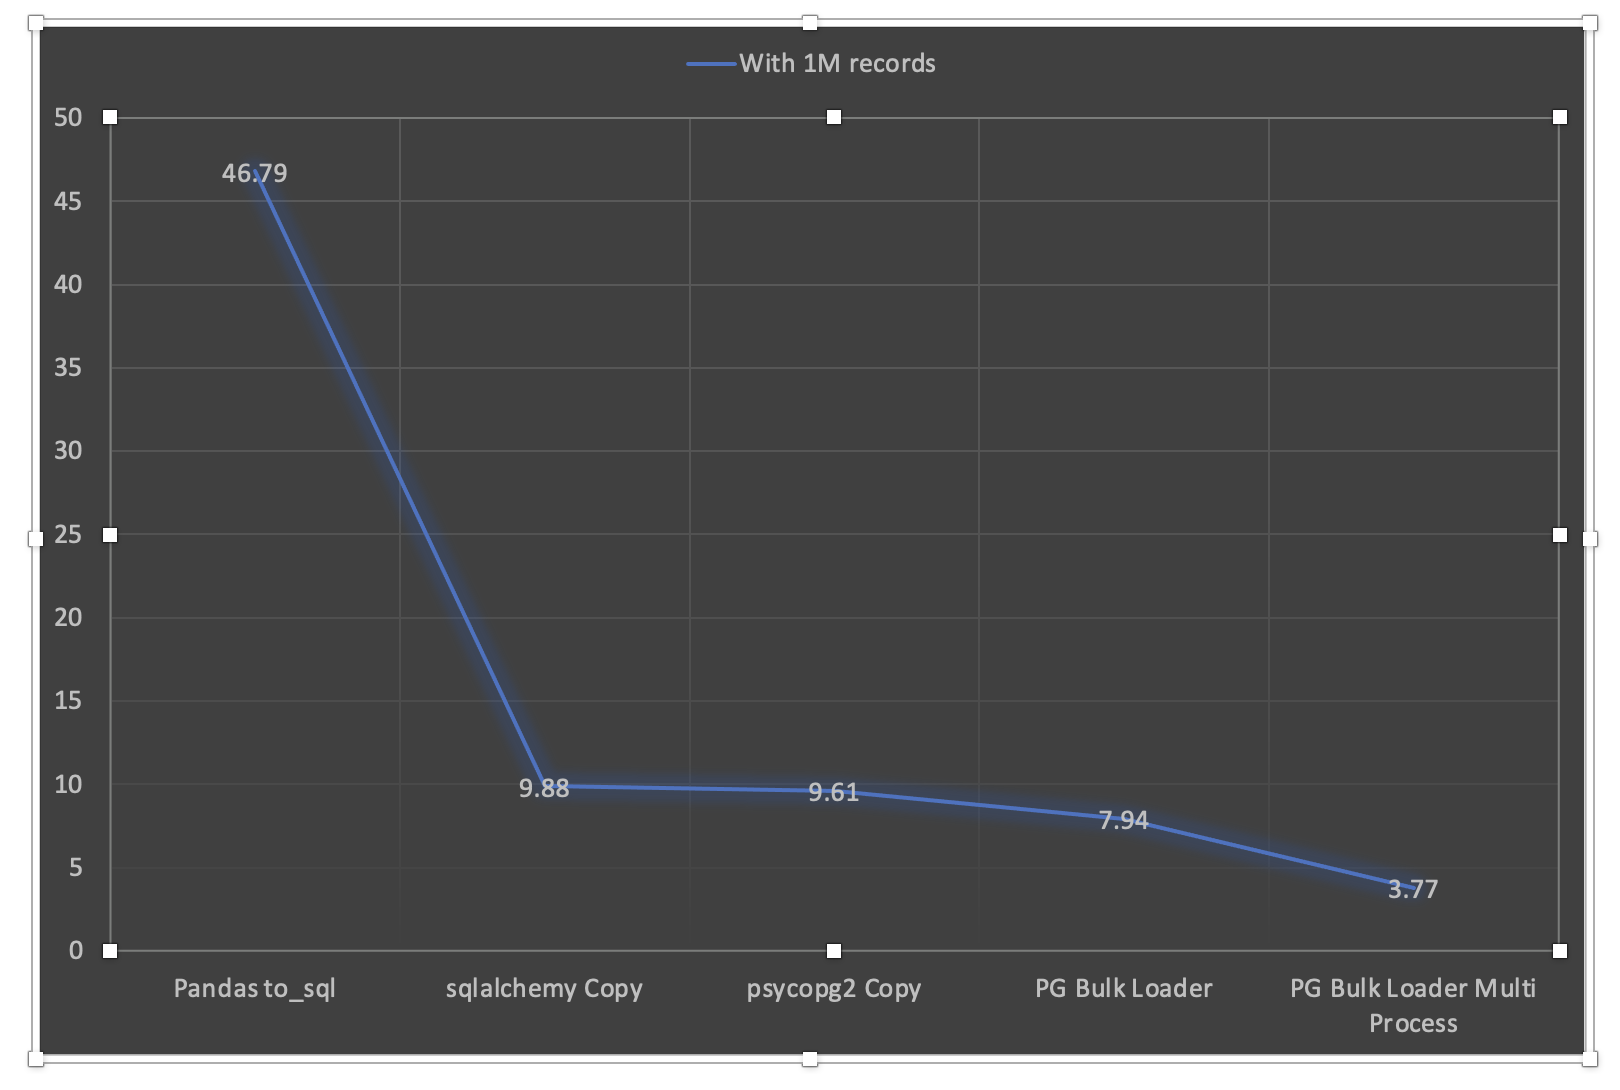
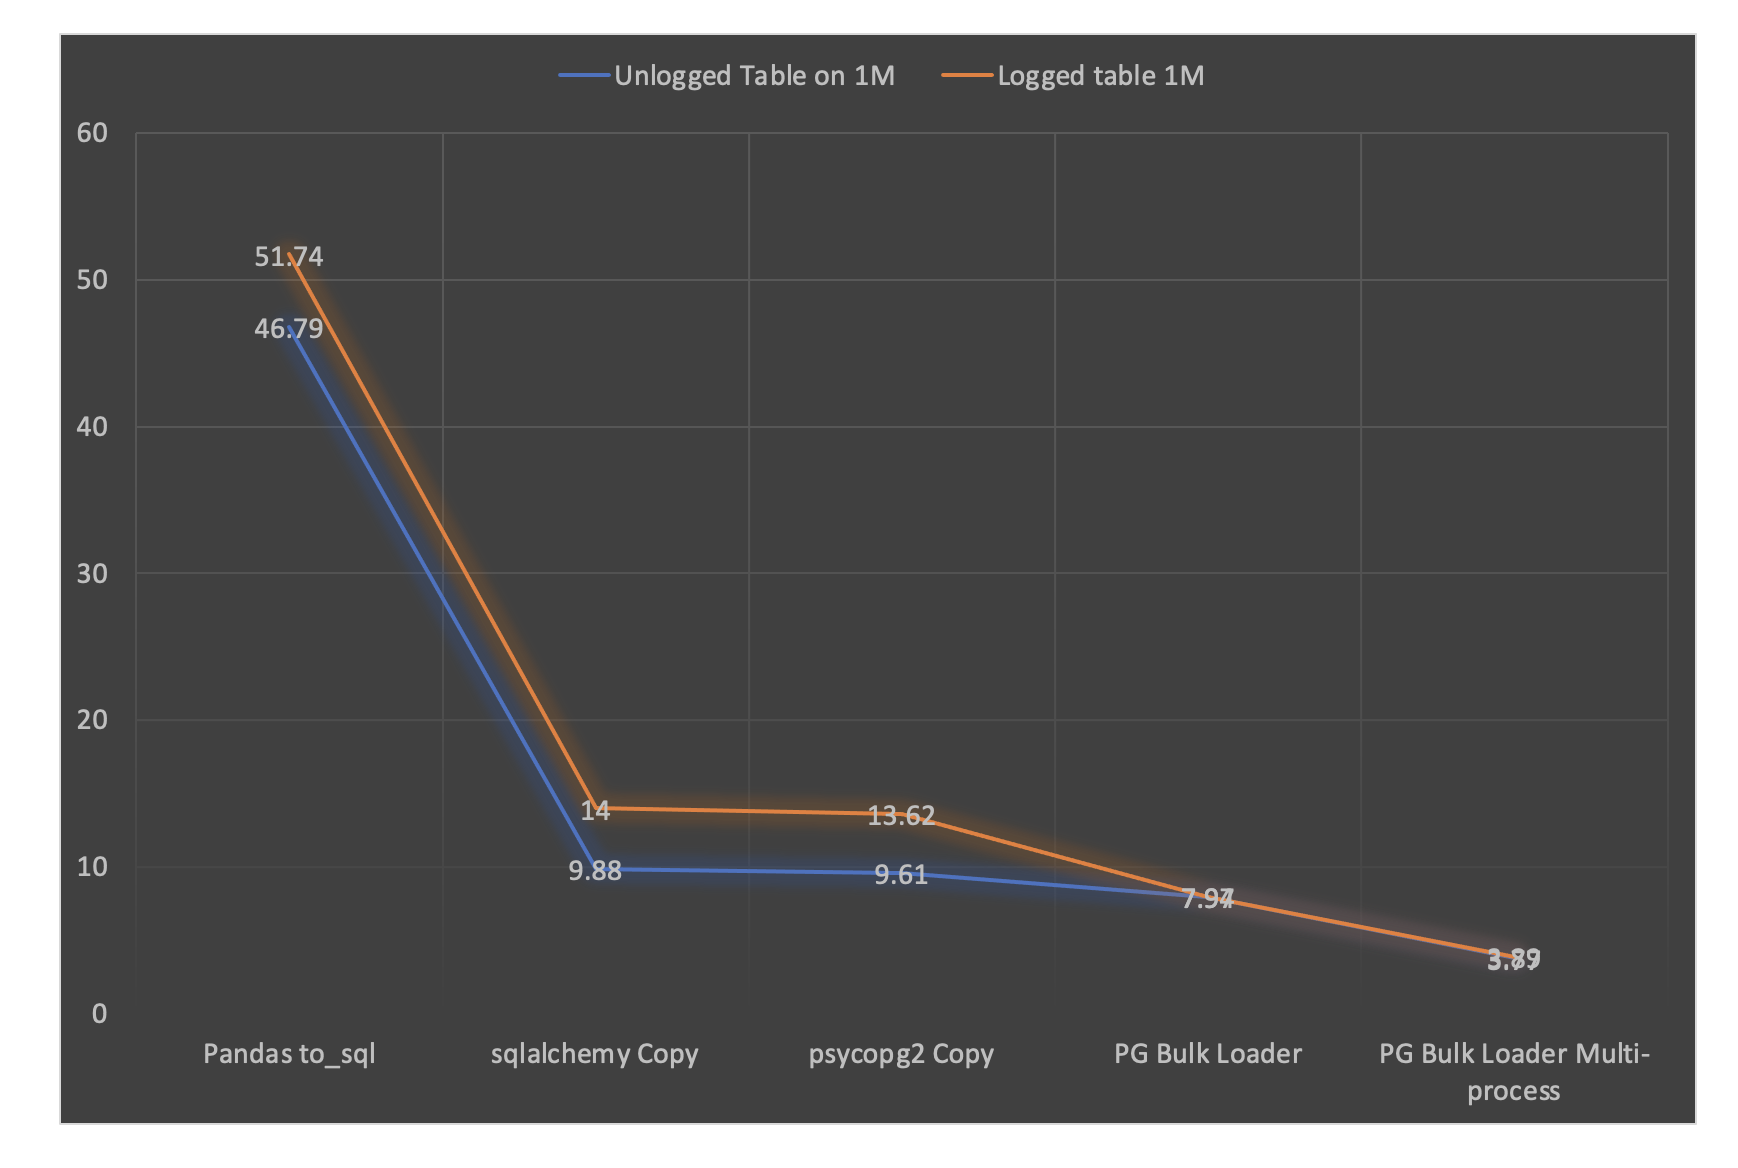
Updated runtime in readme file

Changed region(s): [[0.0, 0.0, 0.9877, 0.9982], [0.1235, 0.156, 0.8951, 0.8422]]

diff --git a/README.md b/README.md
@@ -27,12 +27,16 @@ This utility leverages the power of PostgreSQL in combination with Python to eff
 - Primary key: 3 columns (2 text and 1 date)
 - Indexes: 2 b-tree. (1 on single column and another on three columns)
 
-**Runtime:**
-- Data Size: 20M
-  - without PK and Indexes: ~55s
-  - with PK and indexes: ~150s (~85s to insert data with PK enabled and ~65 seconds to create indexes)
+**Runtime on 20M Dataset:**
+- The table has no PK and no index:
+  - When table is UNLOGGED - ~55 seconds.
+  - When table is LOGGED - ~68 seconds.
 
-**Running with 1M records without having PK and Indexes with different approaches:**
+- The table has PK with 3 columns and 2 b-tree indexes (maintenance work memory at 512 MB):
+  - When table is UNLOGGED - ~150 seconds (~66s are taken for drop-and-create index operation).
+  - When table is LOGGED - ~180 seconds (~68s are taken for drop-and-create index operation).
+
+**Runtime on 1M Dataset without having PK and Indexes with different approaches:**
 
 ![Screenshot](pg-bulk-loader.png)
 Note: Numbers are in seconds!
